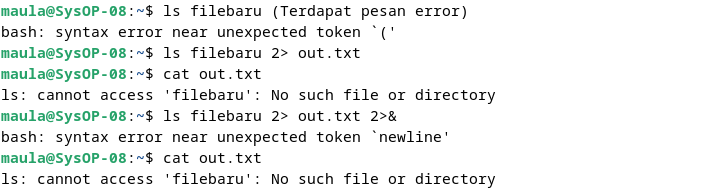
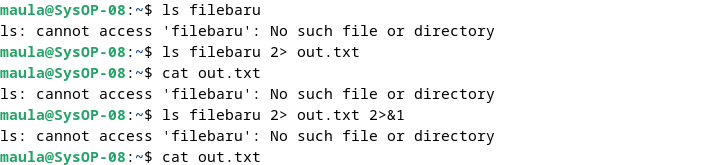
update tugas

diff --git a/week-4/operasi_io.md b/week-4/operasi_io.md
@@ -124,7 +124,6 @@ Proses 1 menghasilkan output yang selanjutnya digunakan sebagai input oleh Prose
 <br><b>wc :</b> Digunakan untuk menghitung jumlah baris, kata dan karakter dari baris-baris masukan yang diberikan kepadanya. Untuk mengetahui berapa baris gunakan option -l. Untuk mengetahui berapa kata, gunakan option -w dan untuk mengetahui berapa karakter, gunakan option -c. Jika salah satu option tidak digunakan, maka tampilannya adalah jumlah baris, jumlah kata dan jumlah karakter
 <br><b>cut :</b> Digunakan untuk mengambil  kolom tertentu dan baris-baris masukannya, yang ditentukan pada opinion -c 
 <br><b>uniq :</b> Digunakan untuk menghilangkan baris-baris berurutan yang mengalami duplikasi, biasanya digabungkan dalam pipeline dengan sort
-<br>
 
 ## PERCOBAAN:
 
@@ -141,6 +140,10 @@ Proses 1 menghasilkan output yang selanjutnya digunakan sebagai input oleh Prose
     ```
 
    ![App Screenshot](img/percobaan1_1.png)
+
+   Analisis 
+   <p>Perintah $ ps digunakan untuk untuk menampilkan informasi tentang proses yang sedang aktif di dalam sistem.</p>
+
 2. Output ke layar (standar output), input dari keyboard (standard input)
    ```
     $ cat
@@ -153,6 +156,9 @@ Proses 1 menghasilkan output yang selanjutnya digunakan sebagai input oleh Prose
 
    ![App Screenshot](img/percobaan1_2.png)
 
+   Analisis 
+   <p>Perintah cat digunakan untuk untuk menampilkan informasi tentang proses yang sedang aktif di dalam sistem.</p>
+
 3. Input nama direktori, output tidak ada (membuat direktori baru), bila terjadi error maka tampilan error pada layar (standard error)
    ```
    $ mkdir mydir
@@ -160,6 +166,9 @@ Proses 1 menghasilkan output yang selanjutnya digunakan sebagai input oleh Prose
    ```
 
    ![App Screenshot](img/percobaan1_3.png)
+
+   Analisis 
+   <p>Perintah mkdir perintah yang digunakan untuk membuat direktori baru di dalam filesystem. </p>
 
 ## Percobaan 2 : Pembelokan (redirection)
 1. Pembelokan standar output
@@ -170,6 +179,9 @@ Proses 1 menghasilkan output yang selanjutnya digunakan sebagai input oleh Prose
 
    ![App Screenshot](img/percobaan2_1.png)
 
+   Analisis 
+   <p>Perintah “cat 1> myfile.txt” digunakan untuk meng-input‐kan dengan keyboard dan tanda "1>" merupakan pengganti dari standard output.</p>
+
 2. Pembelokan standar input, yaitu input dibelokkan dari keyboard menjadi dari file
    ```
     $ cat 0< myfile.txt
@@ -177,6 +189,10 @@ Proses 1 menghasilkan output yang selanjutnya digunakan sebagai input oleh Prose
    ```
 
    ![App Screenshot](img/percobaan2_2.png)
+
+   Analisis 
+   <p>Perintah “cat 0< myfile.txt” ini digunakan untuk file input dibelokkan dari keyboard dari file sehingga antara “cat 0< myfile.txt” dan “cat myfile.txt” memiliki keterkaitan.</p>
+
 
 3. Pembelokan standar error untuk disimpan di file
    ```
@@ -186,6 +202,9 @@ Proses 1 menghasilkan output yang selanjutnya digunakan sebagai input oleh Prose
    ```
 
    ![App Screenshot](img/percobaan2_3.png)
+
+   Analisis 
+   <p>Perintah “mkdir mydir” digunakan untuk membuat folder dengan nama mydir tetapi muncul pesan error, karena sudah dibuat sebelumnya. Selanjutnya, pada perintah “mkdir mydir 2> myerror.txt” digunakan untuk membelokkan (memindahkan) pesan error sebelumnya ke dalam file myerror.txt. Tanda "2>" menandakan bahwa output standard error. Selanjutnya, pada perintah “cat myerror.txt” digunakan untuk memunculkan teks yang terdapat dalam file myerror.txt berupa pesan error yang telah dibelokkan sebelumnya.</p>
 
 4. Notasi 2>&1 : pembelokan standar error (2>) adalah identik dengan file descriptor 1.
    ```
@@ -198,6 +217,9 @@ Proses 1 menghasilkan output yang selanjutnya digunakan sebagai input oleh Prose
 
    ![App Screenshot](img/percobaan2_4.png)
 
+   Analisis 
+   <p>Pembelokan standard error (2>) adalah identik dengan file descriptor 1. Perintah “ls filebaru” digunakan untuk menampilkan isi dari folder atau direktori dari filebaru. Tetapi, muncul pesan error karena direktori filebaru tidak ada. Kemudian, perintah “ls filebaru 2> out.txt” digunakan untuk memindahkan pesan error tersebut ke dalam file out.txt melalui standard error yang ditandai dengan "2>". Kemudian, perintah “ls filebaru 2 > out.txt 2>&1” mempunyai fungsi yang sama dengan perintah “cat out.txt.”.</p>
+
 5. Notasi 1>&2 (atau >&2) : pembelokan standar output adalah sama dengan file descriptor 2 yaitu standar error
    ```
    $ echo “mencoba menulis file” 1> baru
@@ -206,6 +228,9 @@ Proses 1 menghasilkan output yang selanjutnya digunakan sebagai input oleh Prose
    ```
 
    ![App Screenshot](img/percobaan2_5.png)
+
+   Analisis 
+   <p>Perintah echo "mencoba menulis file" >1 baru digunakan untuk menulis kata "mencoba menulis file" yang kemudian dibelokkan ke filebaru yang ditandai dengan tanda "1>". Selanjutnya, pada perintah “cat filebaru 2> baru 1>&2” digunakan untuk membelokkan tampilan filebaru ke standard output yang ditandai dengan tanda "1>&2" yang berarti sama dengan descriptor 2 yaitu standard error.</p>
 
 6. Notasi >> (append)
    ```
@@ -218,6 +243,9 @@ Proses 1 menghasilkan output yang selanjutnya digunakan sebagai input oleh Prose
    ```
 
    ![App Screenshot](img/percobaan2_6.png)
+
+   Analisis 
+   <p>Perintah echo "kata pertama" > surat digunakan untuk menulis kalimat "kata pertama" ke dalam file surat. Selanjutnya, pada perintah echo "kata kedua" >> surat digunakan untuk menulis "kata kedua" ke dalam file surat tanpa menghapus teks sebelumnya yang ditandai dengan ">>". Selanjutnya, pada perintah echo "kata ketiga" >> surat digunakan untuk menulis kalimat "kata ketiga" ke dalam file surat tanpa menghapus teks sebelumnya. Kemudian, teks tersebut ditampilkan dengan perintah cat surat. Selanjutnya, perintah echo "kata keempat" > surat digunakan untuk menulis "kata keempat" dengan menghapus teks sebelumnya yang ditandai dengan tanda ">". Kemudian perintah cat surat digunakan untuk menampilkan isi file surat.</p>
 
 7. Notasi here document (<<++ .... ++) digunakan sebagai pembatas input dari keyboard. Perhatikan bahwa tanda pembatas dapat digantikan dengan tanda apa saja, namun harus sama dan tanda penutup harus diberikan pada awal baris
    ```
@@ -235,12 +263,18 @@ Proses 1 menghasilkan output yang selanjutnya digunakan sebagai input oleh Prose
 
    ![App Screenshot](img/percobaan2_7.png)
 
+   Analisis 
+   <p>Tanda ++ ... ++ digunakan sebagai pembatas input dari keyboard. Tanda tersebut bisa diganti oleh tanda apa saja asalkan pada awal dan akhirnya sama. Pada saat mengetikkan perintah “cat << ++” kemudian mengetikkan kalimat, setelah enter ternyata bisa memasukkan beberapa kalimat lagi. Tetapi, saat menuliskan kalimat ++, sistem menghentikan proses kemudian menampilkannya.</p>
+
 8. Notasi – (input keyboard) adalah representan input dari keyboard. Artinya menampilkan file 1, kemudian menampilkan input dari keyboard dan menampilkan file 2. Perhatikan bahwa notasi “-“ berarti menyelipkan input dari keyboard
    ```
    $ cat myfile.txt – surat
    ```
 
    ![App Screenshot](img/percobaan2_8.png)
+
+   Analisis 
+   <p>Tanda "‐" (input dari keyboard) adalah representan input dari keyboard. Artinya, menampilkan file 1, kemudian menampilkan input dari keyboard dan menampilkan file 2. Tanda "‐" menyatakan bahwa menyelipkan input dari keyboard. Pada terminal ini, akan menampilkan isi file dari "myfile.txt" sekaligus menampilkan file "surat".</p>
 
 ## Percobaan 3 : Pipa (pipeline)
 
@@ -259,6 +293,9 @@ Proses 1 menghasilkan output yang selanjutnya digunakan sebagai input oleh Prose
    ![App Screenshot](img/percobaan3_1(1).png)
    ![App Screenshot](img/percobaan3_1(2).png)
 
+   Analisis 
+   <p>Pipeline memungkinkan user untuk menggabungkan beberapa perintah secara efisien, dengan output dari satu perintah menjadi input untuk perintah berikutnya. Hal ini sangat berguna untuk memproses dan menganalisis data secara langsung tanpa perlu menyimpannya dalam file sementara</p>
+
 2. Untuk membelokkan standart output ke file, digunakan operator ">"
    ```
    $ echo hello
@@ -268,6 +305,9 @@ Proses 1 menghasilkan output yang selanjutnya digunakan sebagai input oleh Prose
 
    ![App Screenshot](img/percobaan3_2.png)
 
+   Analisis 
+   <p>Perintah “echo hello” digunakan untuk menampilkan teks "hello" seketika itu juga. Selanjutnya, perintah “echo hello > output” digunakan untuk membelokkan kata "hello" ke file output. Selanjutnya, perintah “cat output” digunakan untuk menampilkan isi dari file output.</p>
+
 3. Untuk menambahkan output ke file digunakan operator ">>"
    ```
    $ echo bye >> output
@@ -276,12 +316,18 @@ Proses 1 menghasilkan output yang selanjutnya digunakan sebagai input oleh Prose
 
    ![App Screenshot](img/percobaan3_3.png)
 
+   Analisis 
+   <p>Perintah “echo bye >> output” digunakan untuk menambahkan teks "bye" ke dalam file output yang ditandai dengan ">>". Setelah itu, perimtah “cat output” digunakan untuk menampilkan isi dari file output.</p>
+
 4. Untuk membelokkan standart input digunakan operator "<"
    ```
    $ cat < output
    ```
 
    ![App Screenshot](img/percobaan3_4.png)
+
+   Analisis 
+   <p>Perintah “cat < output” digunakan untuk membelokkan standard input dari file output. Ternyata, perintah tersebut mempunyai fungsi yang sama dengan perintah “cat output” pada nomor sebelumnya.</p>
 
 5. Pembelokan standart input dan standart output dapat dikombinasikan tetapi tidak boleh menggunakan nama file yang sama sebagai standart input dan output.
    ```
@@ -297,6 +343,9 @@ Proses 1 menghasilkan output yang selanjutnya digunakan sebagai input oleh Prose
    ```
 
    ![App Screenshot](img/percobaan3_5.png)
+
+   Analisis 
+   <p>Perintah “cat < output > out” dan “cat out” merupakan perintah yang dikombinasikan untuk membelokkan standard output dari file output menjadi standard input untuk file out sehingga hasil standard output‐nya sama. Selanjutnya, perintah “cat < output >> out” digunakan untuk membelokkan standard output dari file output menjadi penambahan output ke file yang bernama out. Sehingga, output dari file out akan ditambahkan dengan output dari file output. Selanjutnya, perintah “cat output >> out”, “cat out”, “cat < output > output”, “cat output”, “cat < out >> out” tidak diperkenankan karena menggunakan nama file yang sama. Maka, akan muncul tulisan terus menerus hingga menekan tombol CTRL+c.</p>
 
 ## Percobaan 4 : Filter
 1. Pipa juga digunakan untuk mengkombinasikan utilitas sistem untuk membentuk fungsi yang lebih kompleks
@@ -333,8 +382,7 @@ Proses 1 menghasilkan output yang selanjutnya digunakan sebagai input oleh Prose
    ![App Screenshot](img/latihan_1.png)
 
    Analisis 
-   <p>Perintah $ ls adalah perintah yang digunakan untuk melihat direktori pada linux. Perintah ini digunakan untuk melihat atau menampilkan/list isi dari folder/direktori di linux. Jika diketikan langsung maka akan menampilkan isi dari direktori Anda berada saat ini. Sedangkan untuk
-   membelokkan tampilan standard output ke file baru, menggunakan ‘>’.</p>   
+   <p>Perintah $ ls adalah perintah yang digunakan untuk melihat direktori pada linux. Perintah ini digunakan untuk melihat atau menampilkan/list isi dari folder/direktori di linux. Jika diketikan langsung maka akan menampilkan isi dari direktori Anda berada saat ini. Sedangkan untuk membelokkan tampilan standard output ke file baru, menggunakan ‘>’.</p>   
 
 2. Lihat daftar secara lengkap pada direktori /etc/passwd, belokkan tampilan standard output ke file baru tanpa menghapus file baru sebelumnya.
 
@@ -415,12 +463,27 @@ Proses 1 menghasilkan output yang selanjutnya digunakan sebagai input oleh Prose
    Analisis
    <p>Uniq digunakan untuk menghilangkan baris-baris berurutan yang mengalami duplikat,
    grep digunakan untuk menyaring masukannya dan menampilkan baris-baris yang hanya
-   mengandung pola yang ditentukan. Pola ini disebut regular expression. Salah satu regular
-   expression dari grep adalah -v (invert0match), yang akan menampilkan baris yang
-   tidak mengandung pola yang ditentukan.</p>
+   mengandung pola yang ditentukan. Sementara itu, perintah `$ cat hello.txt | grep "dog" | grep -v "cat"` membaca isi "hello.txt", menyaring baris yang mengandung kata "dog" dengan `grep`, dan kemudian menghilangkan baris yang juga mengandung kata "cat" dengan menggunakan opsi `-v` di `grep`, sehingga hanya menampilkan baris yang mengandung kata "dog" namun tidak mengandung kata "cat".
+   </p>
 
-## LAPORAN RESMI:
-
-1. Analisa hasil percobaan 1 sampai dengan 4, untuk setiap perintah jelaskan tampilannya.
-2. Kerjakan latihan diatas dan analisa hasilnya
-3. Berikan kesimpulan dari praktikum ini.
+## KESIMPULAN
+   <p>Proses I/O, file descriptor, redirection, dan pipeline adalah konsep-konsep fundamental dalam sistem operasi dan pengelolaan aliran data di dalamnya.<br>
+   <strong>Proses I/O (Input/Output): </strong>
+   <br>
+   Sebuah proses memerlukan Input dan Output. Instruksi (command) yang diberikan pada Linux melalui Shell disebut sebagai eksekusi program yang selanjutnya disebut proses. Setiap kali instruksi diberikan, maka Linux kernel akan menciptakan sebuah proses dengan memberikan nomor PID (Process Identity). Proses dalam Linux selalu membutuhkan Input dan menghasilkan suatu Output.
+   <br>
+   <strong>File Descriptor : </strong>
+   <br>
+   - File descriptor adalah angka yang digunakan oleh sistem operasi untuk mengidentifikasi dan merujuk ke file atau aliran data yang terbuka oleh proses. <br>
+   - File descriptor ini sering kali diasosiasikan dengan tiga deskriptor standar: 0 = keyboard (standar input), 1 = layar(standar output), dan 2 = layar (standar error).
+   </br>
+   <strong>Redirection : </strong>
+   <br>
+   - Redirection adalah proses mengubah aliran data standar masukan (stdin), keluaran (stdout), dan keluaran kesalahan (stderr) dari dan ke file lain. <br>
+   - Dalam sistem UNIX/Linux, operator seperti '<', '>', dan '>>' digunakan untuk mengalihkan aliran data dari dan ke file.
+   </br>
+   <strong>Pipeline : </strong>
+   <br>
+   - Pipa adalah mekanisme di sistem operasi UNIX/Linux yang memungkinkan keluaran dari satu program digunakan sebagai masukan untuk program lainnya secara berurutan. <br>
+   - Pipa menggunakan operator '|' untuk menghubungkan beberapa perintah bersama-sama, sehingga keluaran dari perintah pertama menjadi masukan bagi perintah kedua, dan seterusnya.
+   </br></p>
